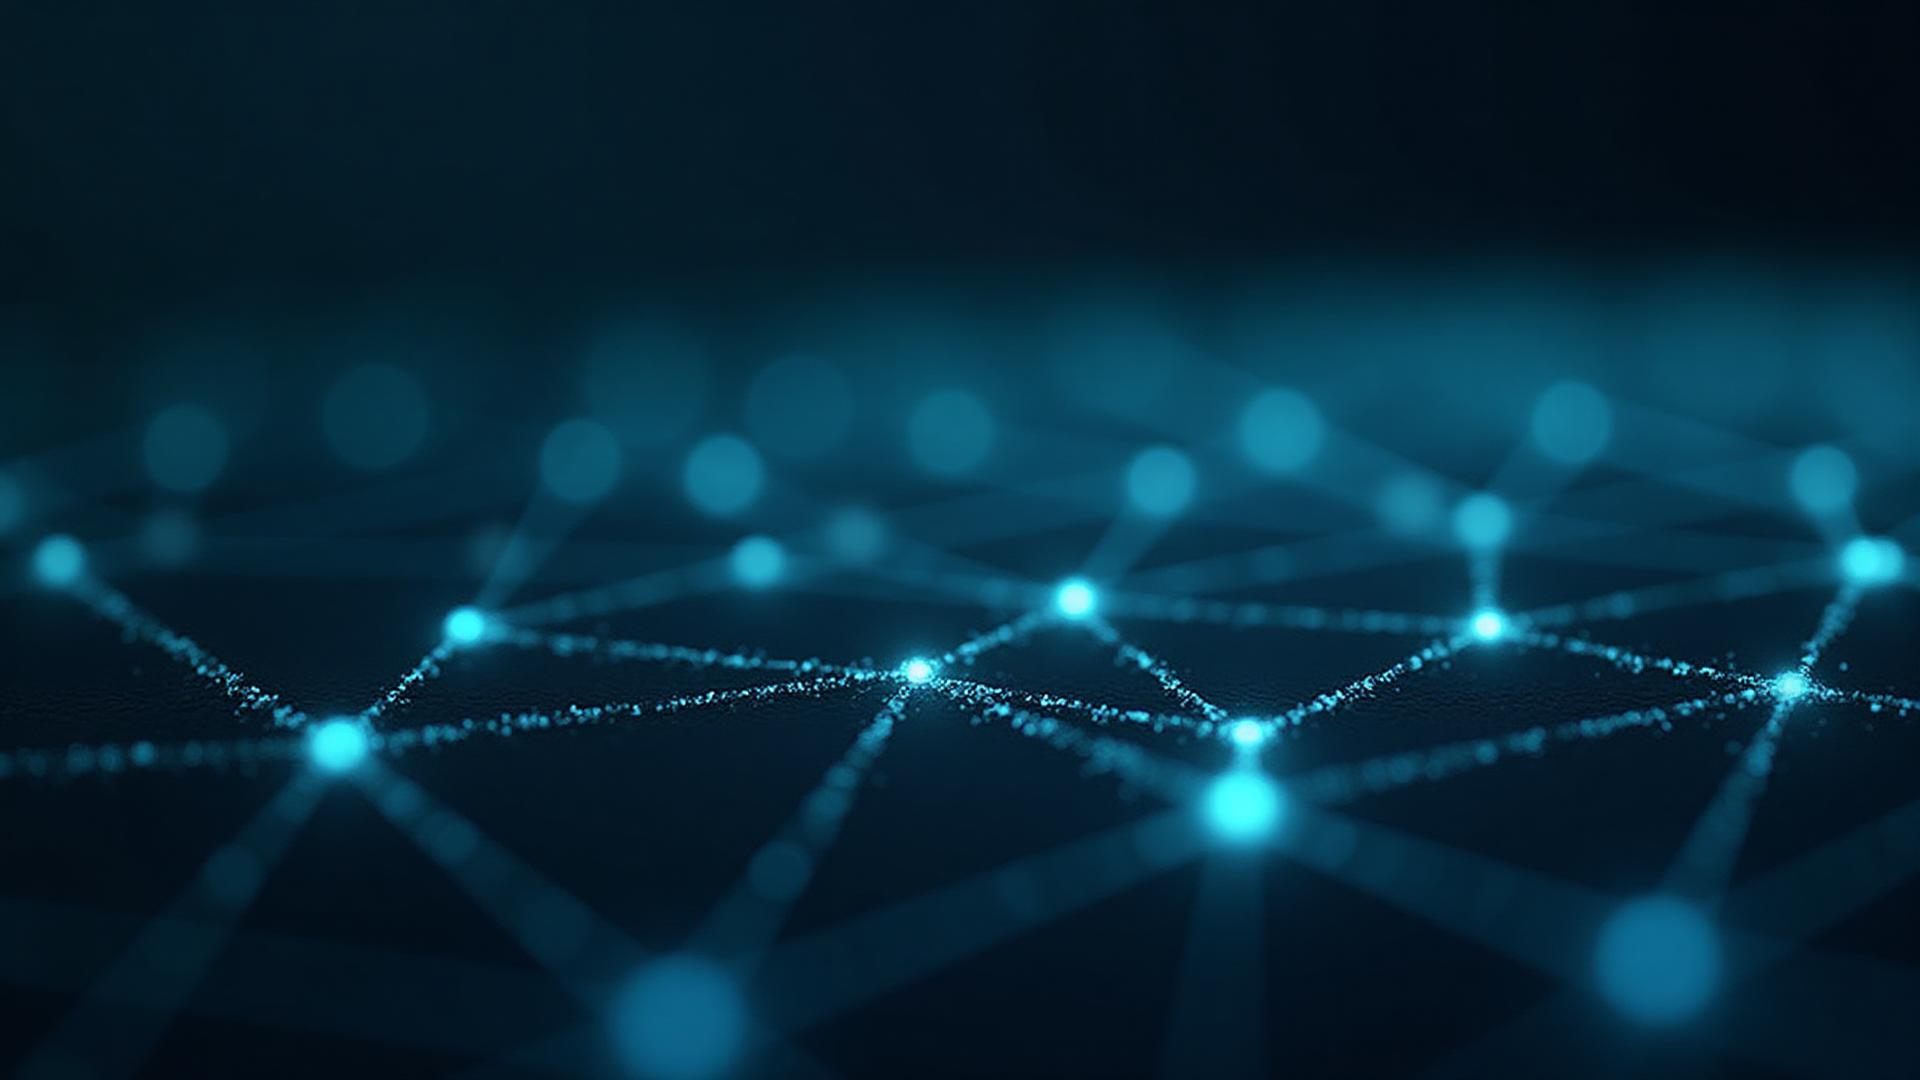
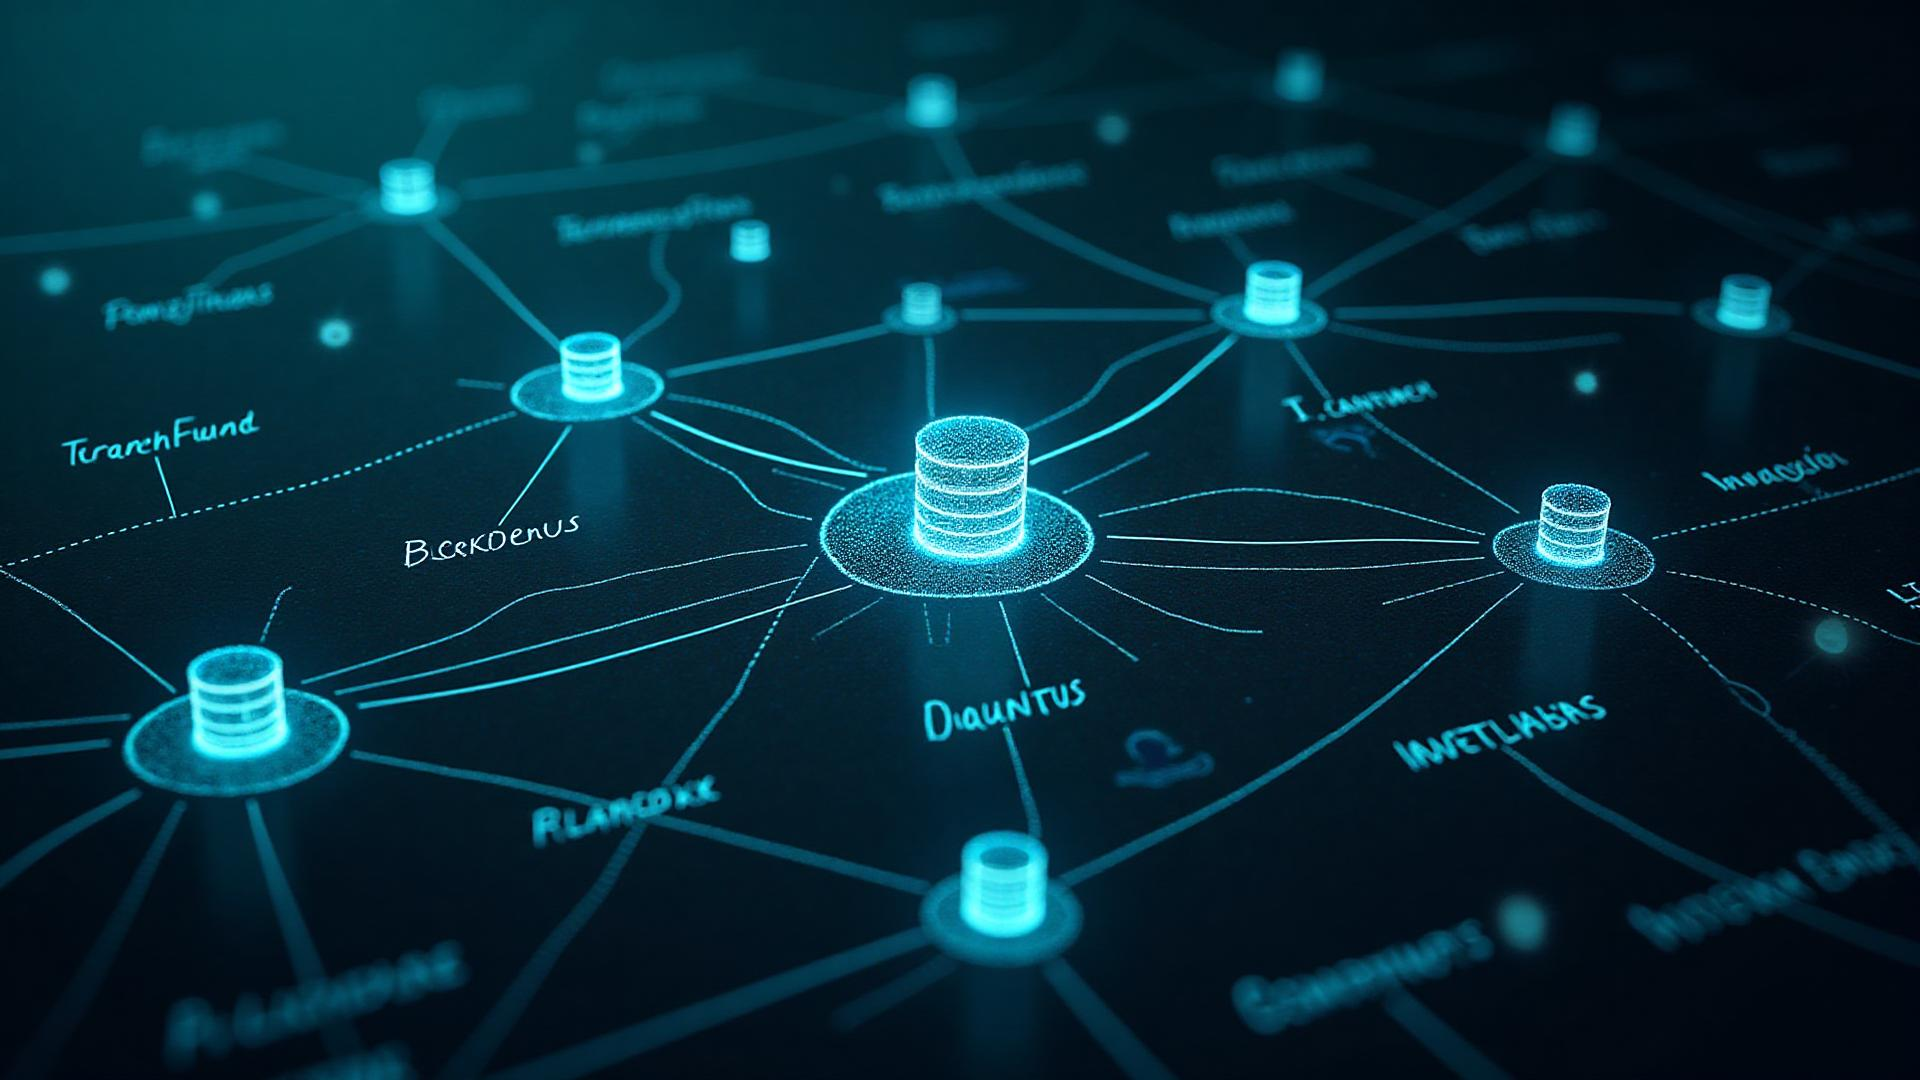
Update hero background image

diff --git a/src/components/Hero.tsx b/src/components/Hero.tsx
@@ -1,6 +1,6 @@
 import { Button } from "@/components/ui/button";
 import { ArrowRight } from "lucide-react";
-import heroSystemsBg from "@/assets/hero-systems-minimal-brains-bg.jpg";
+import heroSystemsBg from "@/assets/hero-network-bg.jpg";
 
 const Hero = () => {
 
